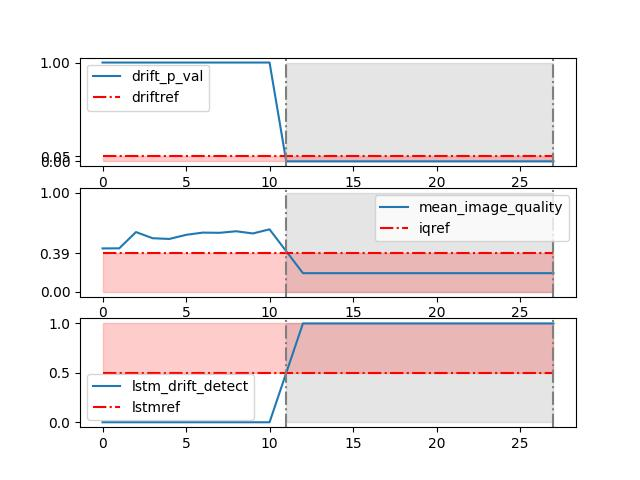
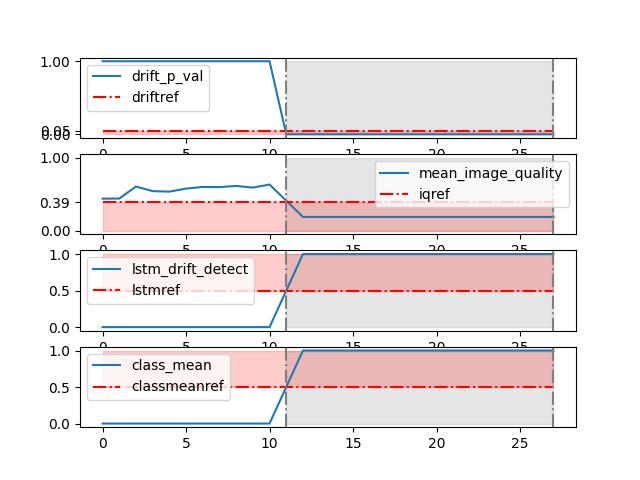
added class mean baseline

diff --git a/main.py b/main.py
@@ -73,9 +73,9 @@ def load_arniqa_model(ddetector_dts: DataLoader, regr_dt: str = "kadid10k"):
     for i, (bimage, _) in enumerate(tqdm(ddetector_dts, desc="Calc ref image quality"),1):
         with torch.no_grad(), torch.cuda.amp.autocast():
             score = model(bimage.to(device), return_embedding=False, scale_score=True)
-            ref_mean = score.min().item() if i==1 else min(ref_mean, score.min().item())
+            ref_iq = score.min().item() if i==1 else min(ref_iq, score.min().item())
 
-    return model.eval().to(device), ref_mean
+    return model.eval().to(device), ref_iq
 
 def return_feat_ext_output(feat_ext, bim, load_ref):
     if not load_ref:
@@ -85,6 +85,13 @@ def return_feat_ext_output(feat_ext, bim, load_ref):
     out_ = inp.argmax(dim=1).unsqueeze(1).float()
     logger.info(out_.permute(1,0))
     return out_
+
+def return_class_mean(feat_ext, bim):
+    inp = feat_ext(bim.to(device))
+    inp = inp.argmax(dim=1)
+    inp = torch.where(inp>0,1.,0.)
+    inp_sum = inp.sum()
+    return inp_sum/inp.shape[0]
 
 def load_drd(ddetector_dts: DataLoader, dd_type:  str = "mmd", load_ref=False, seed=42):
 
@@ -225,18 +232,22 @@ if __name__ == "__main__":
     #     dataset_name_split=ref_dataset, batch_size=global_batch_size, shuffle=True, distort=False, window_size=0, dstr=distortion)
 
     # LOAD ARNIQA
-    model_arniqa, ref_mean = load_arniqa_model(rdet)
+    model_arniqa, ref_iq = load_arniqa_model(rdet)
 
-    # LOAD ARNIQA+DRIFT DETECTOR
+    # LOAD DRIFT DETECTOR
     lf=True
     model_drd, ddetect = load_drd(ddetector_dts=rdet, load_ref=lf, seed=args.seed)
      
-    # LOAD ARNIQA+ KADID10K LSTM
+    # LOAD ARNIQA + KADID10K LSTM
     model_lstm = load_lstm_drift(seed=args.seed)
 
+    all_cl_mean_values = []
     all_drift_p_values = []
     mean_iqscore_values = []
     all_lstm_mean_values = []
+
+    cl_mean_pred = []
+    cl_mean_tar = []
 
     drift_pred = []
     drift_tar = []
@@ -269,20 +280,23 @@ if __name__ == "__main__":
             arniqa_outputs = compute_quality_score(
                 model_arniqa, bimages.to(device),
                 )
-                
+            
+            cl_mean = return_class_mean(model_drd, bimages).item()
             dd_in = return_feat_ext_output(model_drd, bimages, lf)
             pv = ddetect.forward(dd_in)
  
             meaniq = arniqa_outputs.mean().item()
             lstm_mean = torch.argmax(lstm_outputs, dim=1).float().mean()
 
+            all_cl_mean_values.append(cl_mean)
             all_drift_p_values.append(pv)
             mean_iqscore_values.append(meaniq)
             all_lstm_mean_values.append(lstm_mean.item())
 
             logging.info("---------")
+            logging.info("class_mean:{}".format(cl_mean))
             logging.info("drift p-val:{}".format(pv))
-            logging.info("mean_iq:{}, ref:{}".format(meaniq, ref_mean))
+            logging.info("mean_iq:{}, ref:{}".format(meaniq, ref_iq))
             logging.info("lstm_mean:{}".format(lstm_mean.item()))
             logging.info("Target ISCOR:{}".format(torch.where(labels>0, 1, 0).sum() > labels.shape[0]//2))
             logging.info("---------")
@@ -295,6 +309,11 @@ if __name__ == "__main__":
 
             # ideal_labels = torch.tensor([0]*bimages.shape[0])
 
+            if cl_mean>0.5:
+                cl_mean_pred.append(1)
+            else:
+                cl_mean_pred.append(0)
+
             # CALCULATE PRED STATS FOR LSTM
             if lstm_mean.item()>0.5:
                 lstm_drift_pred.append(1)
@@ -302,21 +321,28 @@ if __name__ == "__main__":
                 lstm_drift_pred.append(0)
 
             # CALCULATE PRED STATS FOR IQA
-            if meaniq<=ref_mean:
+            if meaniq<=ref_iq:
                 poor_quality_pred.append(1)
             else:
                 poor_quality_pred.append(0)
 
             # CALCULATE TARGET
             if torch.where(labels>0, 1, 0).sum() > labels.shape[0]//2:
+                cl_mean_tar.append(1)
                 poor_quality_tar.append(1)
                 lstm_drift_tar.append(1)
                 drift_tar.append(1)
             else:
+                cl_mean_tar.append(0)
                 poor_quality_tar.append(0)
                 lstm_drift_tar.append(0)
                 drift_tar.append(0)
 
+logging.info("--------------------------------------------------")
+logging.info("Class mean stats")
+logging.info("Precision:{}".format(precision_score(cl_mean_tar, cl_mean_pred)))
+logging.info("Recall:{}".format(recall_score(cl_mean_tar, cl_mean_pred)))
+logging.info("F1:{}".format(f1_score(cl_mean_tar, cl_mean_pred)))
 logging.info("--------------------------------------------------")
 logging.info("Drift stats")
 logging.info("Precision:{}".format(precision_score(drift_tar, drift_pred)))
@@ -337,6 +363,18 @@ logging.info("--------------------------------------------------")
 import csv
 
 data = [
+   {
+        'test_dataset':test_dataset, 
+        'ref_dataset':ref_dataset, 
+        'distortion_type': distortion[0],
+        'method': 'class-mean',
+        'seed': args.seed,
+        'window_tape':[win_start, win_start+win_count],
+        'window': window_size*(1.0-sparsity),
+        'precision':precision_score(cl_mean_tar, cl_mean_pred), 
+        'recall': recall_score(cl_mean_tar, cl_mean_pred), 
+        'f1':f1_score(cl_mean_tar, cl_mean_pred)
+    },
     {
         'test_dataset':test_dataset, 
         'ref_dataset':ref_dataset, 
@@ -378,9 +416,9 @@ data = [
 
 with open('diagnostic_values.csv', 'w', newline='') as csvfile:
     writer = csv.writer(csvfile, delimiter=',', quoting=csv.QUOTE_MINIMAL)
-    writer.writerow(["drift_p_val", "mean_image_quality", "lstm_drift_detect", "iqref", "driftref", "lstmref", "window_tape"])
-    for dr,iq,ls in zip(all_drift_p_values, mean_iqscore_values, all_lstm_mean_values):
-        writer.writerow([dr, iq, ls, ref_mean, 0.05, 0.5, [win_start, win_start+win_count]])
+    writer.writerow(["class_mean","drift_p_val", "mean_image_quality", "lstm_drift_detect",  "classmeanref",   "driftref", "iqref", "lstmref", "window_tape"])
+    for cm, dr,iq,ls in zip(all_cl_mean_values, all_drift_p_values, mean_iqscore_values, all_lstm_mean_values):
+        writer.writerow([cm ,dr, iq, ls, 0.5, 0.05, ref_iq,  0.5, [win_start, win_start+win_count]])
     
 if os.path.exists('stats.csv'):
     with open('stats.csv', 'a', newline='') as csvfile:

diff --git a/tabs_and_plots.py b/tabs_and_plots.py
@@ -29,7 +29,7 @@ headers = ['precision_mean','precision_stdv','recall_mean','recall_stdv','f1_mea
 df = df[headers]
 print(tabulate(df,headers=headers, tablefmt="latex_raw"))
 
-fig, axes = plt.subplots(nrows=3, ncols=1)
+fig, axes = plt.subplots(nrows=4, ncols=1)
 
 plot_df = pd.read_csv('diagnostic_values.csv.stable')
 
@@ -47,12 +47,17 @@ axes[1].axvline(x=int(tape[1])-1, ymin=0, ymax=1, color="gray", linestyle="-.")
 axes[1].fill_betweenx([0,1], int(tape[0]), int(tape[1])-1, color="gray", alpha=0.2)
 axes[1].fill_betweenx([0.0, plot_df["iqref"][0]], 0, len(plot_df)-1, color="red", alpha=0.2 )
 
-
 plot_df[["lstm_drift_detect", "lstmref"]].plot(ax=axes[2], yticks=[1.0, 0.5, 0.0], style=["-", "-."], color=['#1f77b4', 'red'])
 axes[2].axvline(x=int(tape[0]), ymin=0, ymax=1, color="gray", linestyle="-.")
 axes[2].axvline(x=int(tape[1])-1, ymin=0, ymax=1, color="gray", linestyle="-.")
 axes[2].fill_betweenx([0,1], int(tape[0]), int(tape[1])-1, color="gray", alpha=0.2)
 axes[2].fill_betweenx([0.5, 1.0], 0, len(plot_df)-1, color="red", alpha=0.2 )
+
+plot_df[["class_mean", "classmeanref"]].plot(ax=axes[3], yticks=[1.0, 0.5, 0.0], style=["-", "-."], color=['#1f77b4', 'red'])
+axes[3].axvline(x=int(tape[0]), ymin=0, ymax=1, color="gray", linestyle="-.")
+axes[3].axvline(x=int(tape[1])-1, ymin=0, ymax=1, color="gray", linestyle="-.")
+axes[3].fill_betweenx([0,1], int(tape[0]), int(tape[1])-1, color="gray", alpha=0.2)
+axes[3].fill_betweenx([0.5, 1.0], 0, len(plot_df)-1, color="red", alpha=0.2 )
 
 plt.savefig("zurich_blackout_44.jpg")
 
